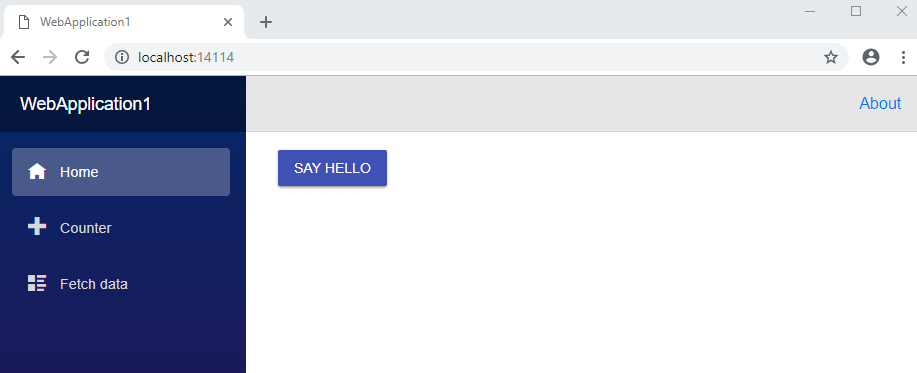
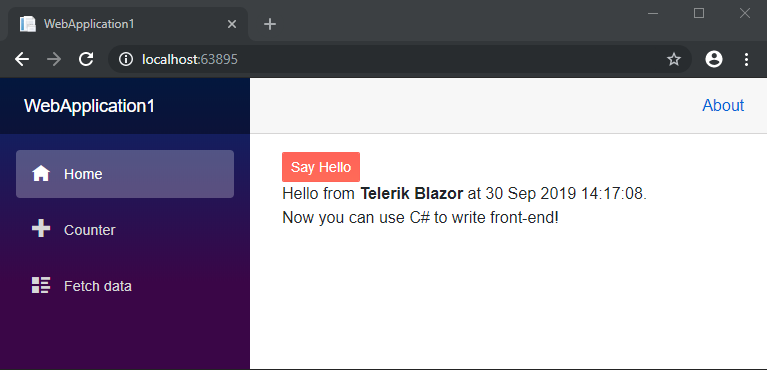
chore(common): fix getting started screenshot

diff --git a/_contentTemplates/common/get-started.md b/_contentTemplates/common/get-started.md
@@ -111,7 +111,7 @@ To get access to the UI for Blazor components, follow these steps:
            }
         }
 
-1. **Run the app** in the browser by pressing `F5`. You should see something like this:
+1. **Run the app** in the browser by pressing `F5`. You should see something like this, after clicking the button:
 
     ![App in the browser](images/app-in-browser.png)
 
